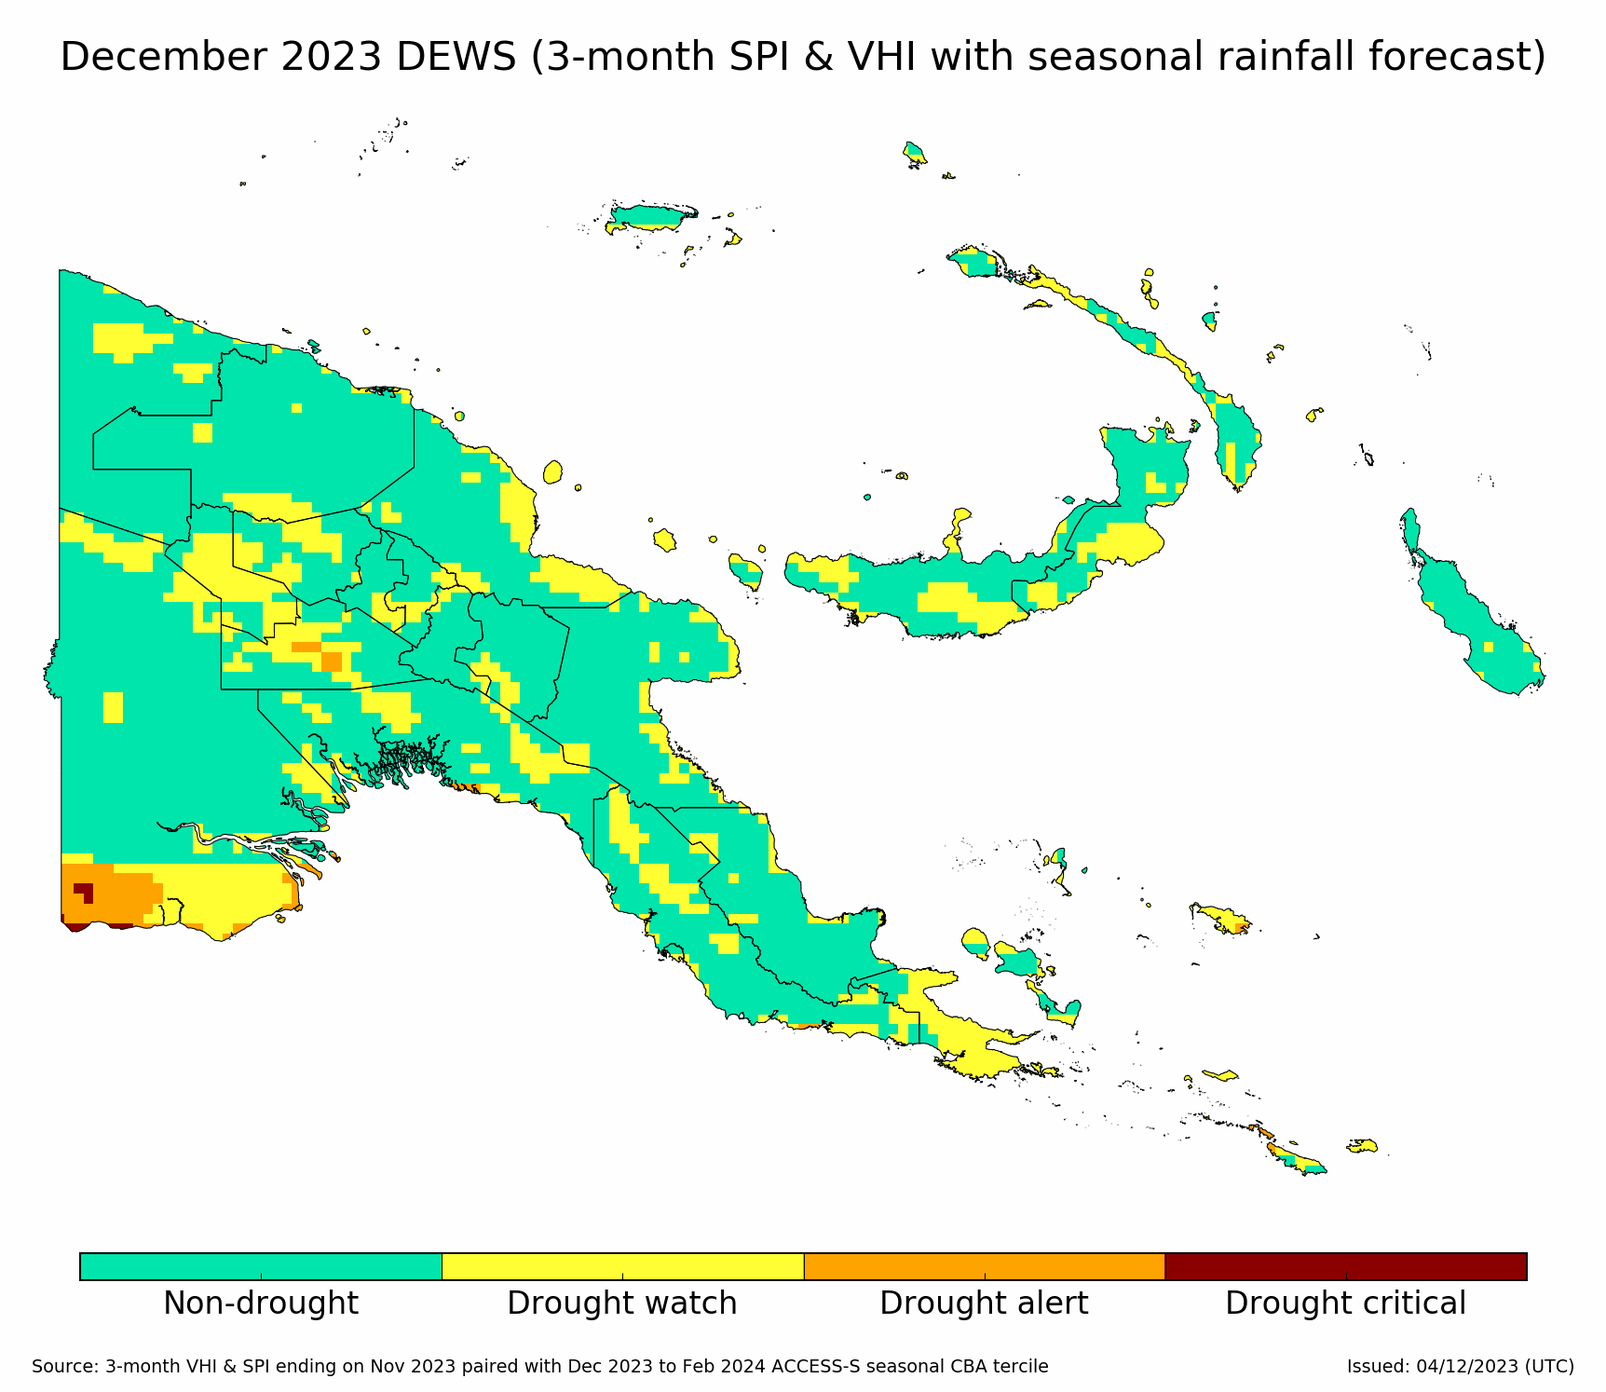
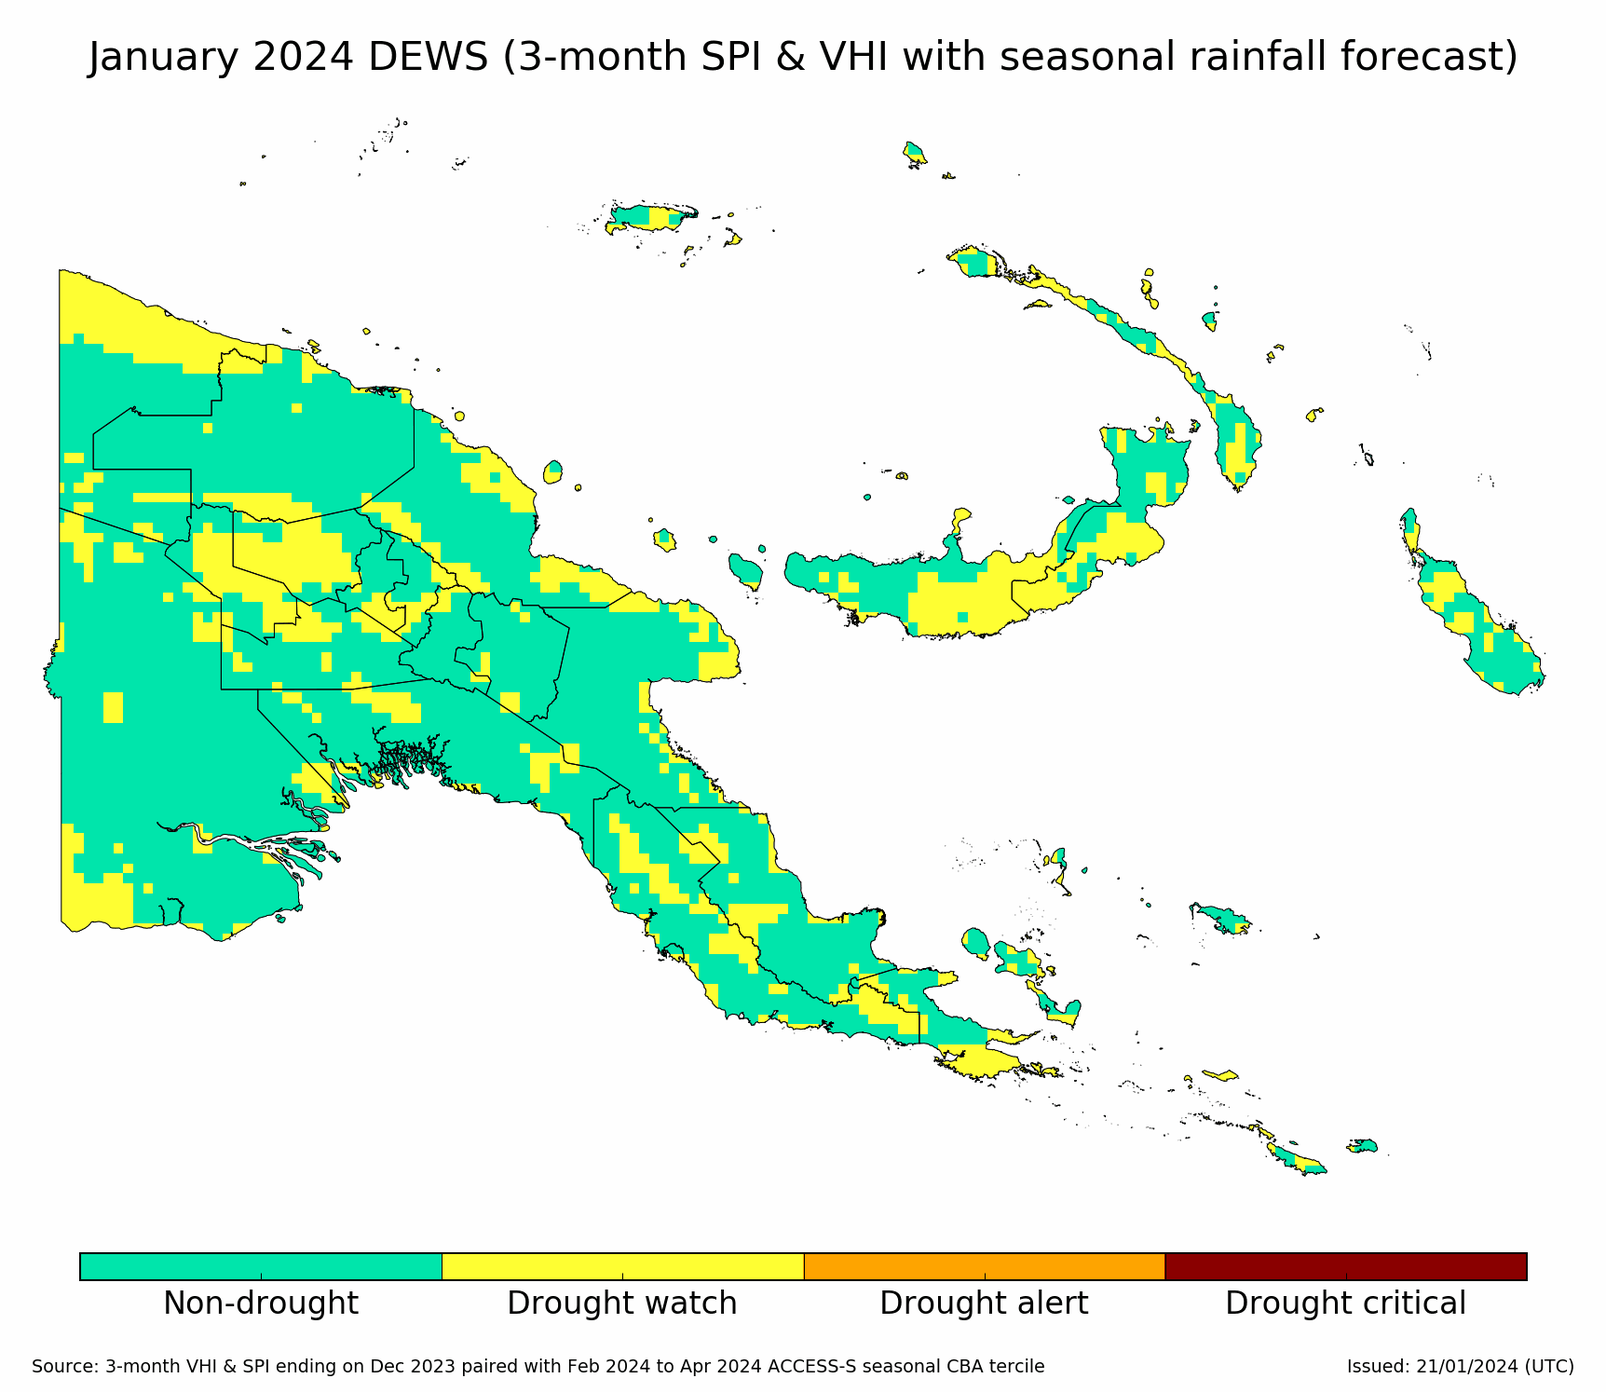
CREWS-PNG Drought Update Jan 2024

diff --git a/README.md b/README.md
@@ -1,72 +1,88 @@
 ![Logo](assets/img/header.png)
-# December 2023 Drought Update
-*`Issued: 12/12/2023`*
+
+# January 2024 Drought Update
+
+*`Issued: 24/01/2024`*
 
 ## Key Messages
-**Drought Critical conditions over small areas have emerged in the southern end of Western Province. Hela continues to be on Drought Watch with Severe Vulnerability levels.  El Niño and positive IOD are underway. While there is still potential that the combined drying effects are in play, their effects are not physically visible at this time.**
-***
+
+**Hela and NCD continues to be on Drought Watch with Severe Vulnerability levels. El Niño is likely to continue into at least March. Positive IOD steadily weakening. The wet season is set in effect which may mean that this drying influence can be broken by rains with the NW monsoon. While there is still potential that the drying effects are in play, their effects may not be physically visible at this time.**
+
+---
 
 ## Drought Early Warning Status (DEWS)
-`-` | Derived from observed 3-month rainfall and vegetation health, along with 3-month forecasted rainfall. | `-`
- --- | :---: | ---
- `+`| ![dews map][dews] | `+` 
- 
-- Small areas of Drought Critical have emerged towards the south of Western province.
-- Drought watch conditions persist for Hela at 3-month timescales.
+
+| `-` | Derived from observed 3-month rainfall and vegetation health, along with 3-month forecasted rainfall. | `-` |
+| ----- | :---------------------------------------------------------------------------------------------------: | ----- |
+| `+` |                                           ![dews map][dews]                                           | `+` |
+
+- Drought watch conditions persist for Hela and NCD at 3-month timescales.
 - At the [12-month rainfall timescale](http://access-s.clide.cloud/files/project/EAR_watch/PNG/ear_watch.SPI.mswep.PNG.month12.png), deficiencies linger for Bougainville and some areas in the Highlands and Momase provinces. Long term deficiencies will have different impacts to short term rainfall deficiencies. Low groundwater, brackish wells and reduced streamflow may be some impacts observed at this timescale.
-***
+
+---
+
 ### 3-month time scale provincial summary
+
 (A province's overall status is given by its majority status on the map and is presented in this [summary table](http://access-s.clide.cloud/files/project/PNG_crews/SEMDP-products/monthly/DEWS/drought.status.formatted.gsmap_own.terciles.3m.html)
 )
-**Drought Watch** | **Drought Alert** | **Drought Critical**
-:---: | :---: | :---:
-`Below average rainfall or Stressed vegetation or Dry forecast` | `(Below average rainfall or Stressed vegetation) and Dry forecast` | `Below average rainfall and Stressed vegetation and Dry forecast`
-**Hela, NCD and New Ireland** | (no province) | (no province)
+
+|                                  **Drought Watch**                                  |   **Drought Alert**   | **Drought Critical** |
+| :----------------------------------------------------------------------------------------: | :--------------------------: | :-------------------------: |
+|                                `Below average rainfall `                                | `(Below average rainfall ` | `Below average rainfall ` |
+| **East New Britain, Enga, Hela, Manus, Milne Bay, NCD, New Ireland and West New Britain** |        (no province)        |        (no province)        |
 
 ### 3-month DEWS inputs
-[3-month Observed Rainfall](http://access-s.clide.cloud/files/project/PNG_crews/SEMDP-products/monthly/spi.moments.png.gsmap.3month.0.1deg.png) | [3-month Observed Vegetation Health](http://access-s.clide.cloud/files/project/PNG_crews/SEMDP-products/monthly/vhi.3month.gridded.png) | [3-month Forecast Rainfall](http://access-s.clide.cloud/files/project/PNG_crews/ACCESS_S-outlooks/PNG_crews/seasonal/forecast/rain.forecast.terciles.PNG_crews.season1.png)
---- | --- | ---
-![standardized rainfall index for 3 months][spi3] | ![vegetation health index for 3 months][vhi3] | ![chance of below, near or above normal rainfall][rfc3]
+
+| [3-month Observed Rainfall](http://access-s.clide.cloud/files/project/PNG_crews/SEMDP-products/monthly/spi.moments.png.gsmap.3month.0.1deg.png) | [3-month Observed Vegetation Health](http://access-s.clide.cloud/files/project/PNG_crews/SEMDP-products/monthly/vhi.3month.gridded.png) | [3-month Forecast Rainfall](http://access-s.clide.cloud/files/project/PNG_crews/ACCESS_S-outlooks/PNG_crews/seasonal/forecast/rain.forecast.terciles.PNG_crews.season1.png) |
+| -------------------------------------------------------------------------------------------------------------------------------------------- | ------------------------------------------------------------------------------------------------------------------------------------ | ------------------------------------------------------------------------------------------------------------------------------------------------------------------------ |
+| ![standardized rainfall index for 3 months][spi3]                                                                                            | ![vegetation health index for 3 months][vhi3]                                                                                        | ![chance of below, near or above normal rainfall][rfc3]                                                                                                                  |
 
 ### Links to other timescales:
-1 Month Timescale| 6 Month Timescale
---- | ---
-[1-month Drought Early Warning Status](http://access-s.clide.cloud/files/project/PNG_crews/SEMDP-products/monthly/DEWS/drought.gsmap_own.terciles.1m.gridded.png) Drought early warning status using 1-month rainfall, 1-month vegetation health and 3-month rainfall forecast. | [6-month Drought Early Warning Status](http://access-s.clide.cloud/files/project/PNG_crews/SEMDP-products/monthly/DEWS/drought.gsmap_own.terciles.6m.gridded.png)  Drought early warning status using 6-month rainfall, 6-month vegetation health and 3-month rainfall forecast.
-[1-month Standardised Precipitation Index](http://access-s.clide.cloud/files/project/PNG_crews/SEMDP-products/monthly/spi.moments.png.gsmap.1month.0.1deg.png) Rainfall over the last month. | [6-month Standardised Precipitation Index](http://access-s.clide.cloud/files/project/PNG_crews/SEMDP-products/monthly/spi.moments.png.gsmap.6month.0.1deg.png) Rainfall over the last 6 months.
-[1-month Vegetation Health Index](http://access-s.clide.cloud/files/project/PNG_crews/SEMDP-products/monthly/vhi.1month.gridded.png) Vegetation health over the last month. | [6-month Vegetation Health Index](http://access-s.clide.cloud/files/project/PNG_crews/SEMDP-products/monthly/vhi.6month.gridded.png) Vegetation health over the last 6 months.
+
+| 1 Month Timescale                                                                                                                                                                                                                                                            | 6 Month Timescale                                                                                                                                                                                                                                                             |
+| ---------------------------------------------------------------------------------------------------------------------------------------------------------------------------------------------------------------------------------------------------------------------------- | ----------------------------------------------------------------------------------------------------------------------------------------------------------------------------------------------------------------------------------------------------------------------------- |
+| [1-month Drought Early Warning Status](http://access-s.clide.cloud/files/project/PNG_crews/SEMDP-products/monthly/DEWS/drought.gsmap_own.terciles.1m.gridded.png) Drought early warning status using 1-month rainfall, 1-month vegetation health and 3-month rainfall forecast. | [6-month Drought Early Warning Status](http://access-s.clide.cloud/files/project/PNG_crews/SEMDP-products/monthly/DEWS/drought.gsmap_own.terciles.6m.gridded.png)  Drought early warning status using 6-month rainfall, 6-month vegetation health and 3-month rainfall forecast. |
+| [1-month Standardised Precipitation Index](http://access-s.clide.cloud/files/project/PNG_crews/SEMDP-products/monthly/spi.moments.png.gsmap.1month.0.1deg.png) Rainfall over the last month.                                                                                    | [6-month Standardised Precipitation Index](http://access-s.clide.cloud/files/project/PNG_crews/SEMDP-products/monthly/spi.moments.png.gsmap.6month.0.1deg.png) Rainfall over the last 6 months.                                                                                  |
+| [1-month Vegetation Health Index](http://access-s.clide.cloud/files/project/PNG_crews/SEMDP-products/monthly/vhi.1month.gridded.png) Vegetation health over the last month.                                                                                                     | [6-month Vegetation Health Index](http://access-s.clide.cloud/files/project/PNG_crews/SEMDP-products/monthly/vhi.6month.gridded.png) Vegetation health over the last 6 months.                                                                                                   |
 
 ## Provinces at Risk if Drought Occurs
-**Contextualise drought early warning information with drought risk information**
->**Drought risk** is the probability of harmful impacts resulting from interactions between drought hazard, exposure, and vulnerability. Hazard information is given by the Early Warning Status, with drought exposure and vulnerability levels shown in the maps below.
 
-Exposure | Vulnerability | Scale
-:---: | :---: | :---:
-`Extent of exposed aspects of the total population and its livelihoods in an area which drought may occur.` | `Likelihood of exposed factors to suffer negative impacts when drought occurs.` |
-![exposure map of PNG provinces][exp] | ![vulnerability map of PNG provinces][vul] | ![Scale][scl]
+**Contextualise drought early warning information with drought risk information**
+
+> **Drought risk** is the probability of harmful impacts resulting from interactions between drought hazard, exposure, and vulnerability. Hazard information is given by the Early Warning Status, with drought exposure and vulnerability levels shown in the maps below.
+
+|                                                     Exposure                                                     |                                   Vulnerability                                   |     Scale     |
+| :--------------------------------------------------------------------------------------------------------------: | :-------------------------------------------------------------------------------: | :-----------: |
+| `Extent of exposed aspects of the total population and its livelihoods in an area which drought may occur.`  | `Likelihood of exposed factors to suffer negative impacts when drought occurs.` |              |
+|                                      ![exposure map of PNG provinces][exp]                                      |                    ![vulnerability map of PNG provinces][vul]                    | ![Scale][scl] |
 
 ### Provinces of Concern
 
- * **Hela** has a majority Drought Watch status with Moderate exposure levels and Severe vulnerability levels.
-***
+* **Hela** has a majority Drought Watch status with Moderate exposure levels and Severe vulnerability levels.
+* **NCD** has a majority Drought Watch status with Mild exposure levels and Severe vulnerability levels.
+
+---
 
 ## Climate Context
+
 **A summary of the relevant climate drivers affecting PNG over the coming months**
 
-* ACCESS-S outlook for next 3 months, January to March, forecasts a likely above average rainfall for the country. For next fortnight a likely averge to above average rainfall outlook for East Sepik, Manus and New Ireland, however for most parts of the country below average rainfall is expected.
-* El Niño currently in place. This El Nino is likely to continue into at least March 2024.  
-* A positive Indian Ocean Dipole (IOD) continues. Models indicate this positive IOD to end likely in January.
-* El Niño and its concurrence with the positive IOD can have an "amplifying effect" over the country. Their combined drying effects on PNG are typically stronger and more widespread, potentially leading to reduced rainfall. While there is still some potential in their combined drying effects, their effects are not physically visible at this time.
-* A moderately strong Madden–Julian Oscillation (MJO) is passing over the region. Around half of the international climate models indicate that the MJO will progress eastwards across the western Pacific this week. MJO over the country is often associated with above average cloudiness and rainfall.
-***
-![footer](assets/img/footer.png)
+* ACCESS-S outlook for next 3 months, February to April, forecasts shows a likely above average rainfall for the country. For next fortnight (27 Jan - 9 Feb) a likely average to below average rainfall outlook for West New Britain and East New Britain. For most parts of the country average to above average rainfall is expected.
+* El Niño has peaked. This El Nino is likely to continue into at least March 2024.
+* A positive Indian Ocean Dipole (IOD) weakening steadily. Models indicate this positive IOD to end likely in the coming weeks.
+* During an El Niño event, greater parts of the mainland together with the southern eastern coastal parts of the country become much drier whilst the New Guinea Islands tends to be less impacted.However, from past experiences, we know that not all El Niño’s are alike, therefore the impacts can vary across the country and within the provinces.
+* A moderate to strong MJO was present in the Maritime Continent last week while progressing eastward. Likely to reach the Western Pacific in a few days.
+
+---
+
+footer
 
 <!-- Images Source -->
-[dews]: products/DEWS_map.png
 
+[dews]: products/DEWS_map.png
 [spi3]: products/spi3.png
 [vhi3]: products/vhi3.png
 [rfc3]: products/rfc3.png
-
 [exp]: assets/map/exp_m.png
 [vul]: assets/map/vul_m.png
 [scl]: assets/img/drought_scale.png

diff --git a/archives/December2023/README.md b/archives/December2023/README.md
@@ -1,0 +1,72 @@
+![Logo](assets/img/header.png)
+# December 2023 Drought Update
+*`Issued: 12/12/2023`*
+
+## Key Messages
+**Drought Critical conditions over small areas have emerged in the southern end of Western Province. Hela continues to be on Drought Watch with Severe Vulnerability levels.  El Niño and positive IOD are underway. While there is still potential that the combined drying effects are in play, their effects are not physically visible at this time.**
+***
+
+## Drought Early Warning Status (DEWS)
+`-` | Derived from observed 3-month rainfall and vegetation health, along with 3-month forecasted rainfall. | `-`
+ --- | :---: | ---
+ `+`| ![dews map][dews] | `+` 
+ 
+- Small areas of Drought Critical have emerged towards the south of Western province.
+- Drought watch conditions persist for Hela at 3-month timescales.
+- At the [12-month rainfall timescale](http://access-s.clide.cloud/files/project/EAR_watch/PNG/ear_watch.SPI.mswep.PNG.month12.png), deficiencies linger for Bougainville and some areas in the Highlands and Momase provinces. Long term deficiencies will have different impacts to short term rainfall deficiencies. Low groundwater, brackish wells and reduced streamflow may be some impacts observed at this timescale.
+***
+### 3-month time scale provincial summary
+(A province's overall status is given by its majority status on the map and is presented in this [summary table](http://access-s.clide.cloud/files/project/PNG_crews/SEMDP-products/monthly/DEWS/drought.status.formatted.gsmap_own.terciles.3m.html)
+)
+**Drought Watch** | **Drought Alert** | **Drought Critical**
+:---: | :---: | :---:
+`Below average rainfall or Stressed vegetation or Dry forecast` | `(Below average rainfall or Stressed vegetation) and Dry forecast` | `Below average rainfall and Stressed vegetation and Dry forecast`
+**Hela, NCD and New Ireland** | (no province) | (no province)
+
+### 3-month DEWS inputs
+[3-month Observed Rainfall](http://access-s.clide.cloud/files/project/PNG_crews/SEMDP-products/monthly/spi.moments.png.gsmap.3month.0.1deg.png) | [3-month Observed Vegetation Health](http://access-s.clide.cloud/files/project/PNG_crews/SEMDP-products/monthly/vhi.3month.gridded.png) | [3-month Forecast Rainfall](http://access-s.clide.cloud/files/project/PNG_crews/ACCESS_S-outlooks/PNG_crews/seasonal/forecast/rain.forecast.terciles.PNG_crews.season1.png)
+--- | --- | ---
+![standardized rainfall index for 3 months][spi3] | ![vegetation health index for 3 months][vhi3] | ![chance of below, near or above normal rainfall][rfc3]
+
+### Links to other timescales:
+1 Month Timescale| 6 Month Timescale
+--- | ---
+[1-month Drought Early Warning Status](http://access-s.clide.cloud/files/project/PNG_crews/SEMDP-products/monthly/DEWS/drought.gsmap_own.terciles.1m.gridded.png) Drought early warning status using 1-month rainfall, 1-month vegetation health and 3-month rainfall forecast. | [6-month Drought Early Warning Status](http://access-s.clide.cloud/files/project/PNG_crews/SEMDP-products/monthly/DEWS/drought.gsmap_own.terciles.6m.gridded.png)  Drought early warning status using 6-month rainfall, 6-month vegetation health and 3-month rainfall forecast.
+[1-month Standardised Precipitation Index](http://access-s.clide.cloud/files/project/PNG_crews/SEMDP-products/monthly/spi.moments.png.gsmap.1month.0.1deg.png) Rainfall over the last month. | [6-month Standardised Precipitation Index](http://access-s.clide.cloud/files/project/PNG_crews/SEMDP-products/monthly/spi.moments.png.gsmap.6month.0.1deg.png) Rainfall over the last 6 months.
+[1-month Vegetation Health Index](http://access-s.clide.cloud/files/project/PNG_crews/SEMDP-products/monthly/vhi.1month.gridded.png) Vegetation health over the last month. | [6-month Vegetation Health Index](http://access-s.clide.cloud/files/project/PNG_crews/SEMDP-products/monthly/vhi.6month.gridded.png) Vegetation health over the last 6 months.
+
+## Provinces at Risk if Drought Occurs
+**Contextualise drought early warning information with drought risk information**
+>**Drought risk** is the probability of harmful impacts resulting from interactions between drought hazard, exposure, and vulnerability. Hazard information is given by the Early Warning Status, with drought exposure and vulnerability levels shown in the maps below.
+
+Exposure | Vulnerability | Scale
+:---: | :---: | :---:
+`Extent of exposed aspects of the total population and its livelihoods in an area which drought may occur.` | `Likelihood of exposed factors to suffer negative impacts when drought occurs.` |
+![exposure map of PNG provinces][exp] | ![vulnerability map of PNG provinces][vul] | ![Scale][scl]
+
+### Provinces of Concern
+
+ * **Hela** has a majority Drought Watch status with Moderate exposure levels and Severe vulnerability levels.
+***
+
+## Climate Context
+**A summary of the relevant climate drivers affecting PNG over the coming months**
+
+* ACCESS-S outlook for next 3 months, January to March, forecasts a likely above average rainfall for the country. For next fortnight a likely averge to above average rainfall outlook for East Sepik, Manus and New Ireland, however for most parts of the country below average rainfall is expected.
+* El Niño currently in place. This El Nino is likely to continue into at least March 2024.  
+* A positive Indian Ocean Dipole (IOD) continues. Models indicate this positive IOD to end likely in January.
+* El Niño and its concurrence with the positive IOD can have an "amplifying effect" over the country. Their combined drying effects on PNG are typically stronger and more widespread, potentially leading to reduced rainfall. While there is still some potential in their combined drying effects, their effects are not physically visible at this time.
+* A moderately strong Madden–Julian Oscillation (MJO) is passing over the region. Around half of the international climate models indicate that the MJO will progress eastwards across the western Pacific this week. MJO over the country is often associated with above average cloudiness and rainfall.
+***
+![footer](assets/img/footer.png)
+
+<!-- Images Source -->
+[dews]: products/DEWS_map.png
+
+[spi3]: products/spi3.png
+[vhi3]: products/vhi3.png
+[rfc3]: products/rfc3.png
+
+[exp]: assets/map/exp_m.png
+[vul]: assets/map/vul_m.png
+[scl]: assets/img/drought_scale.png
